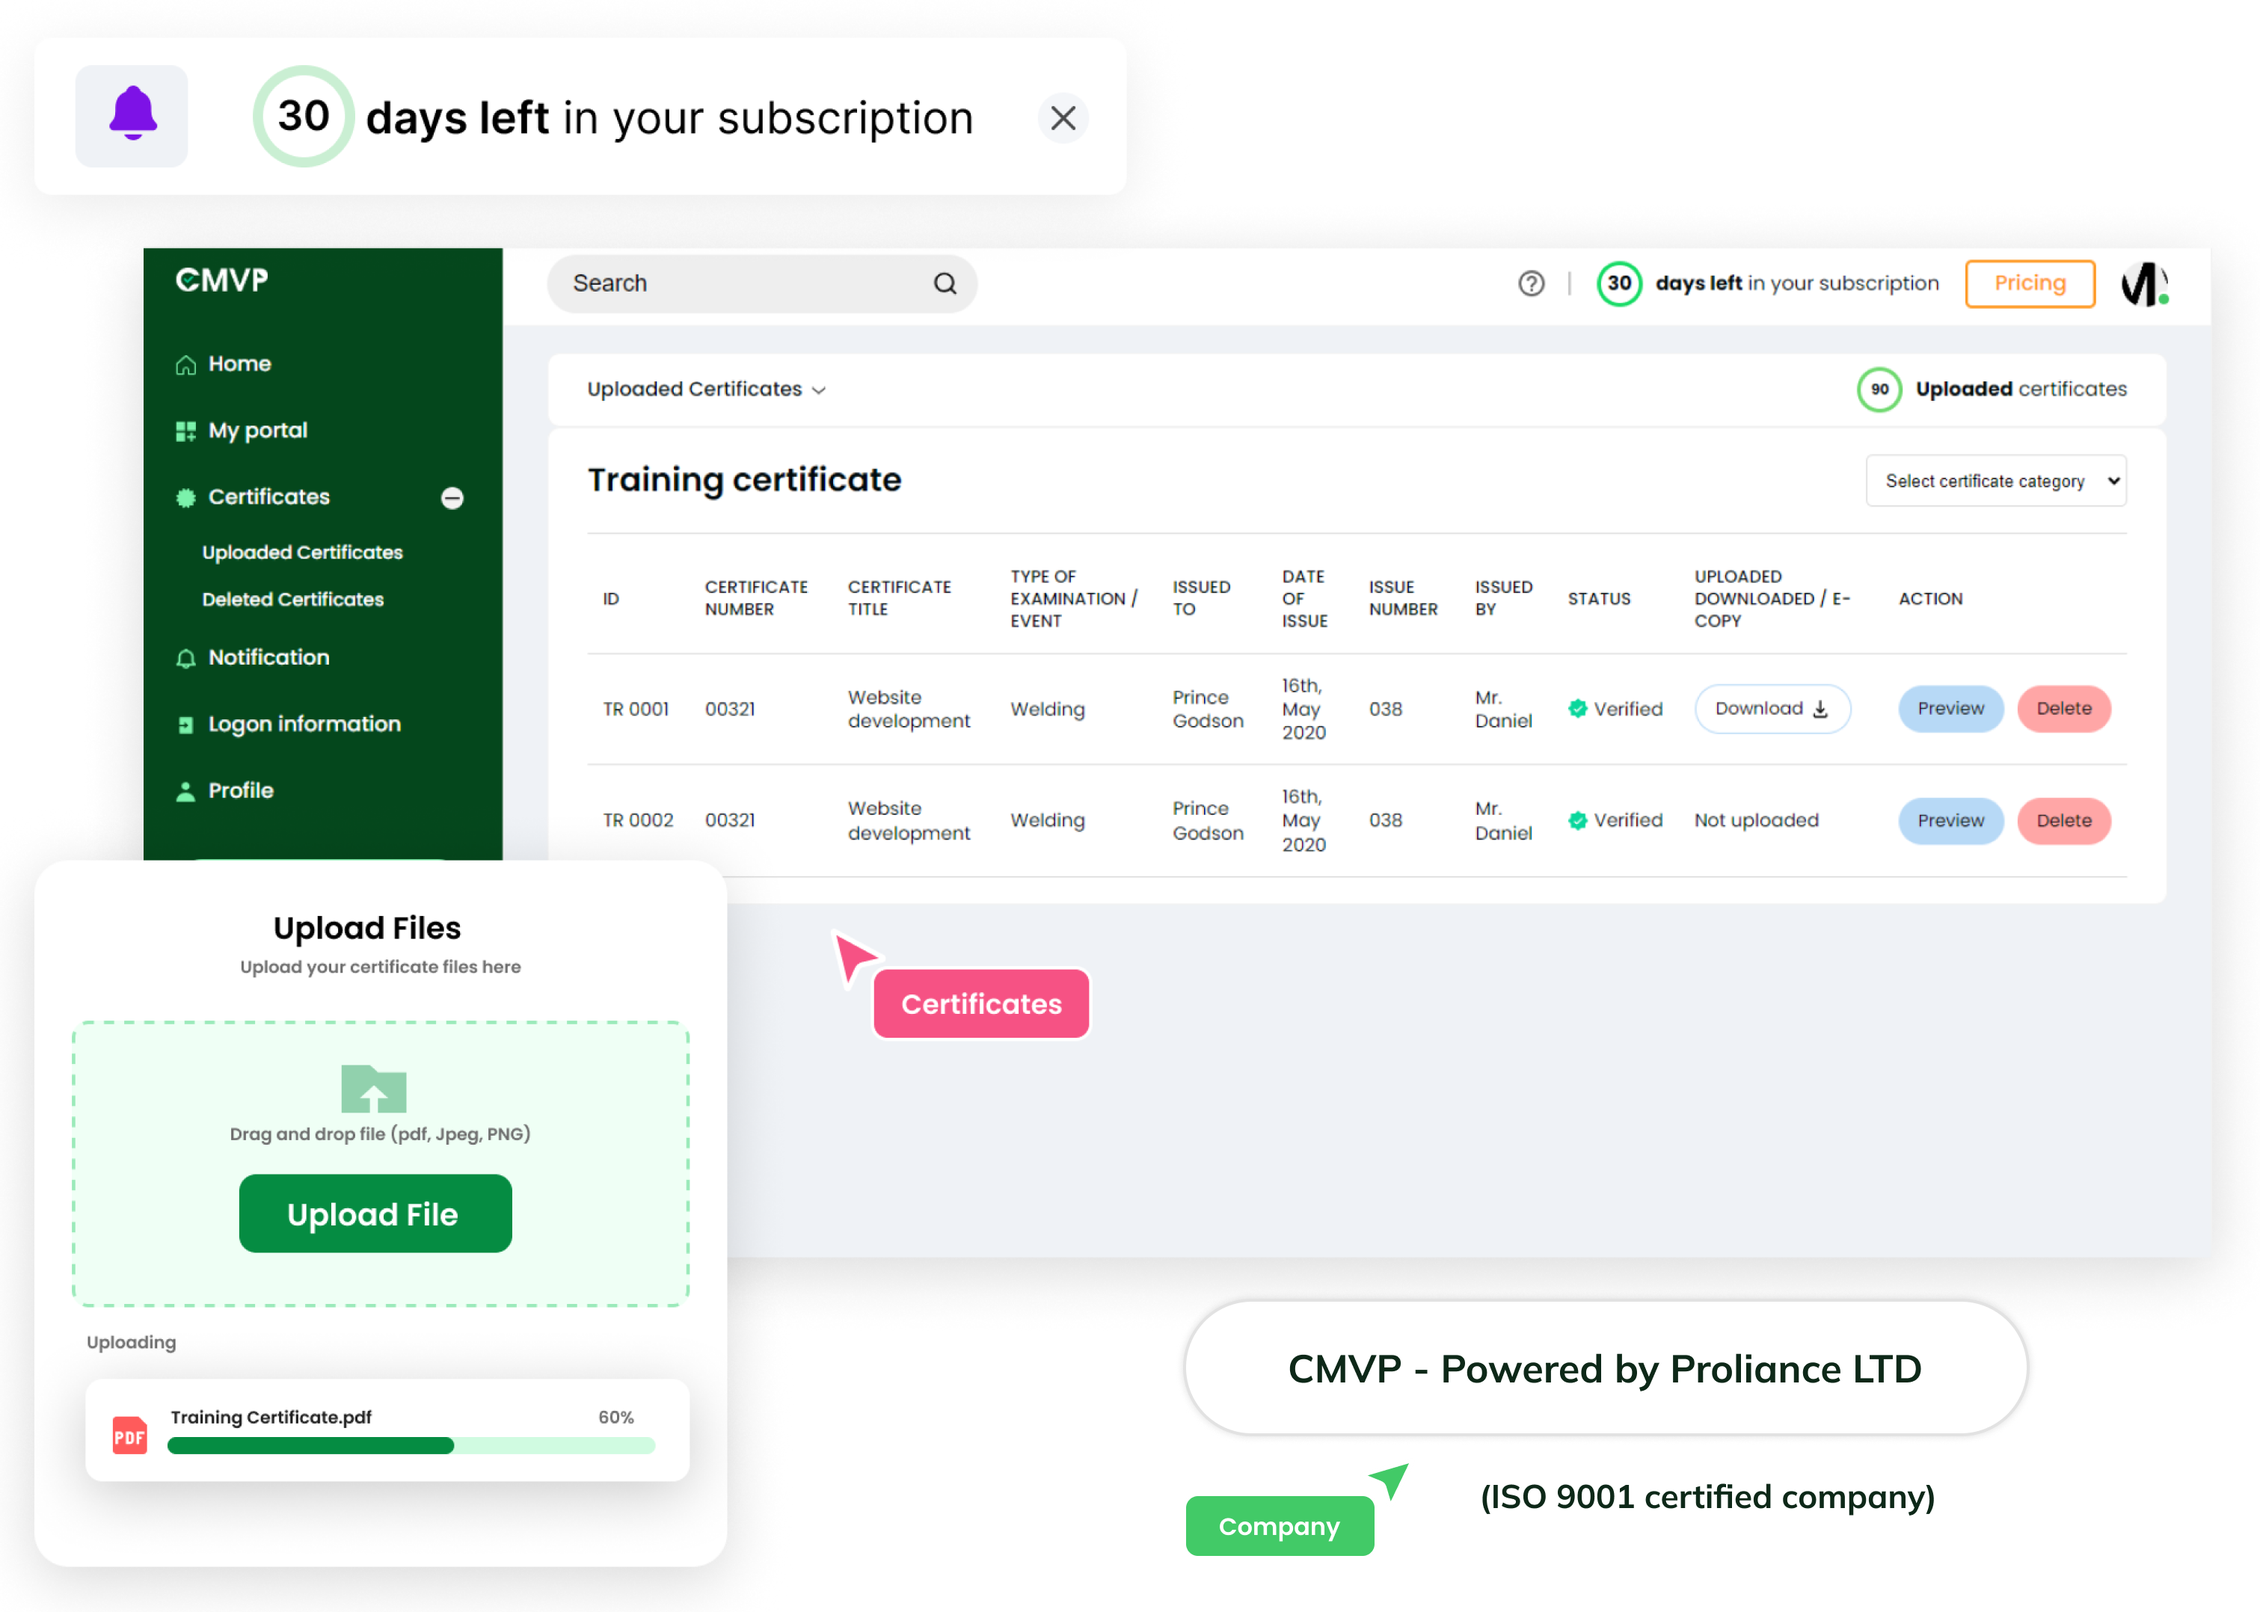
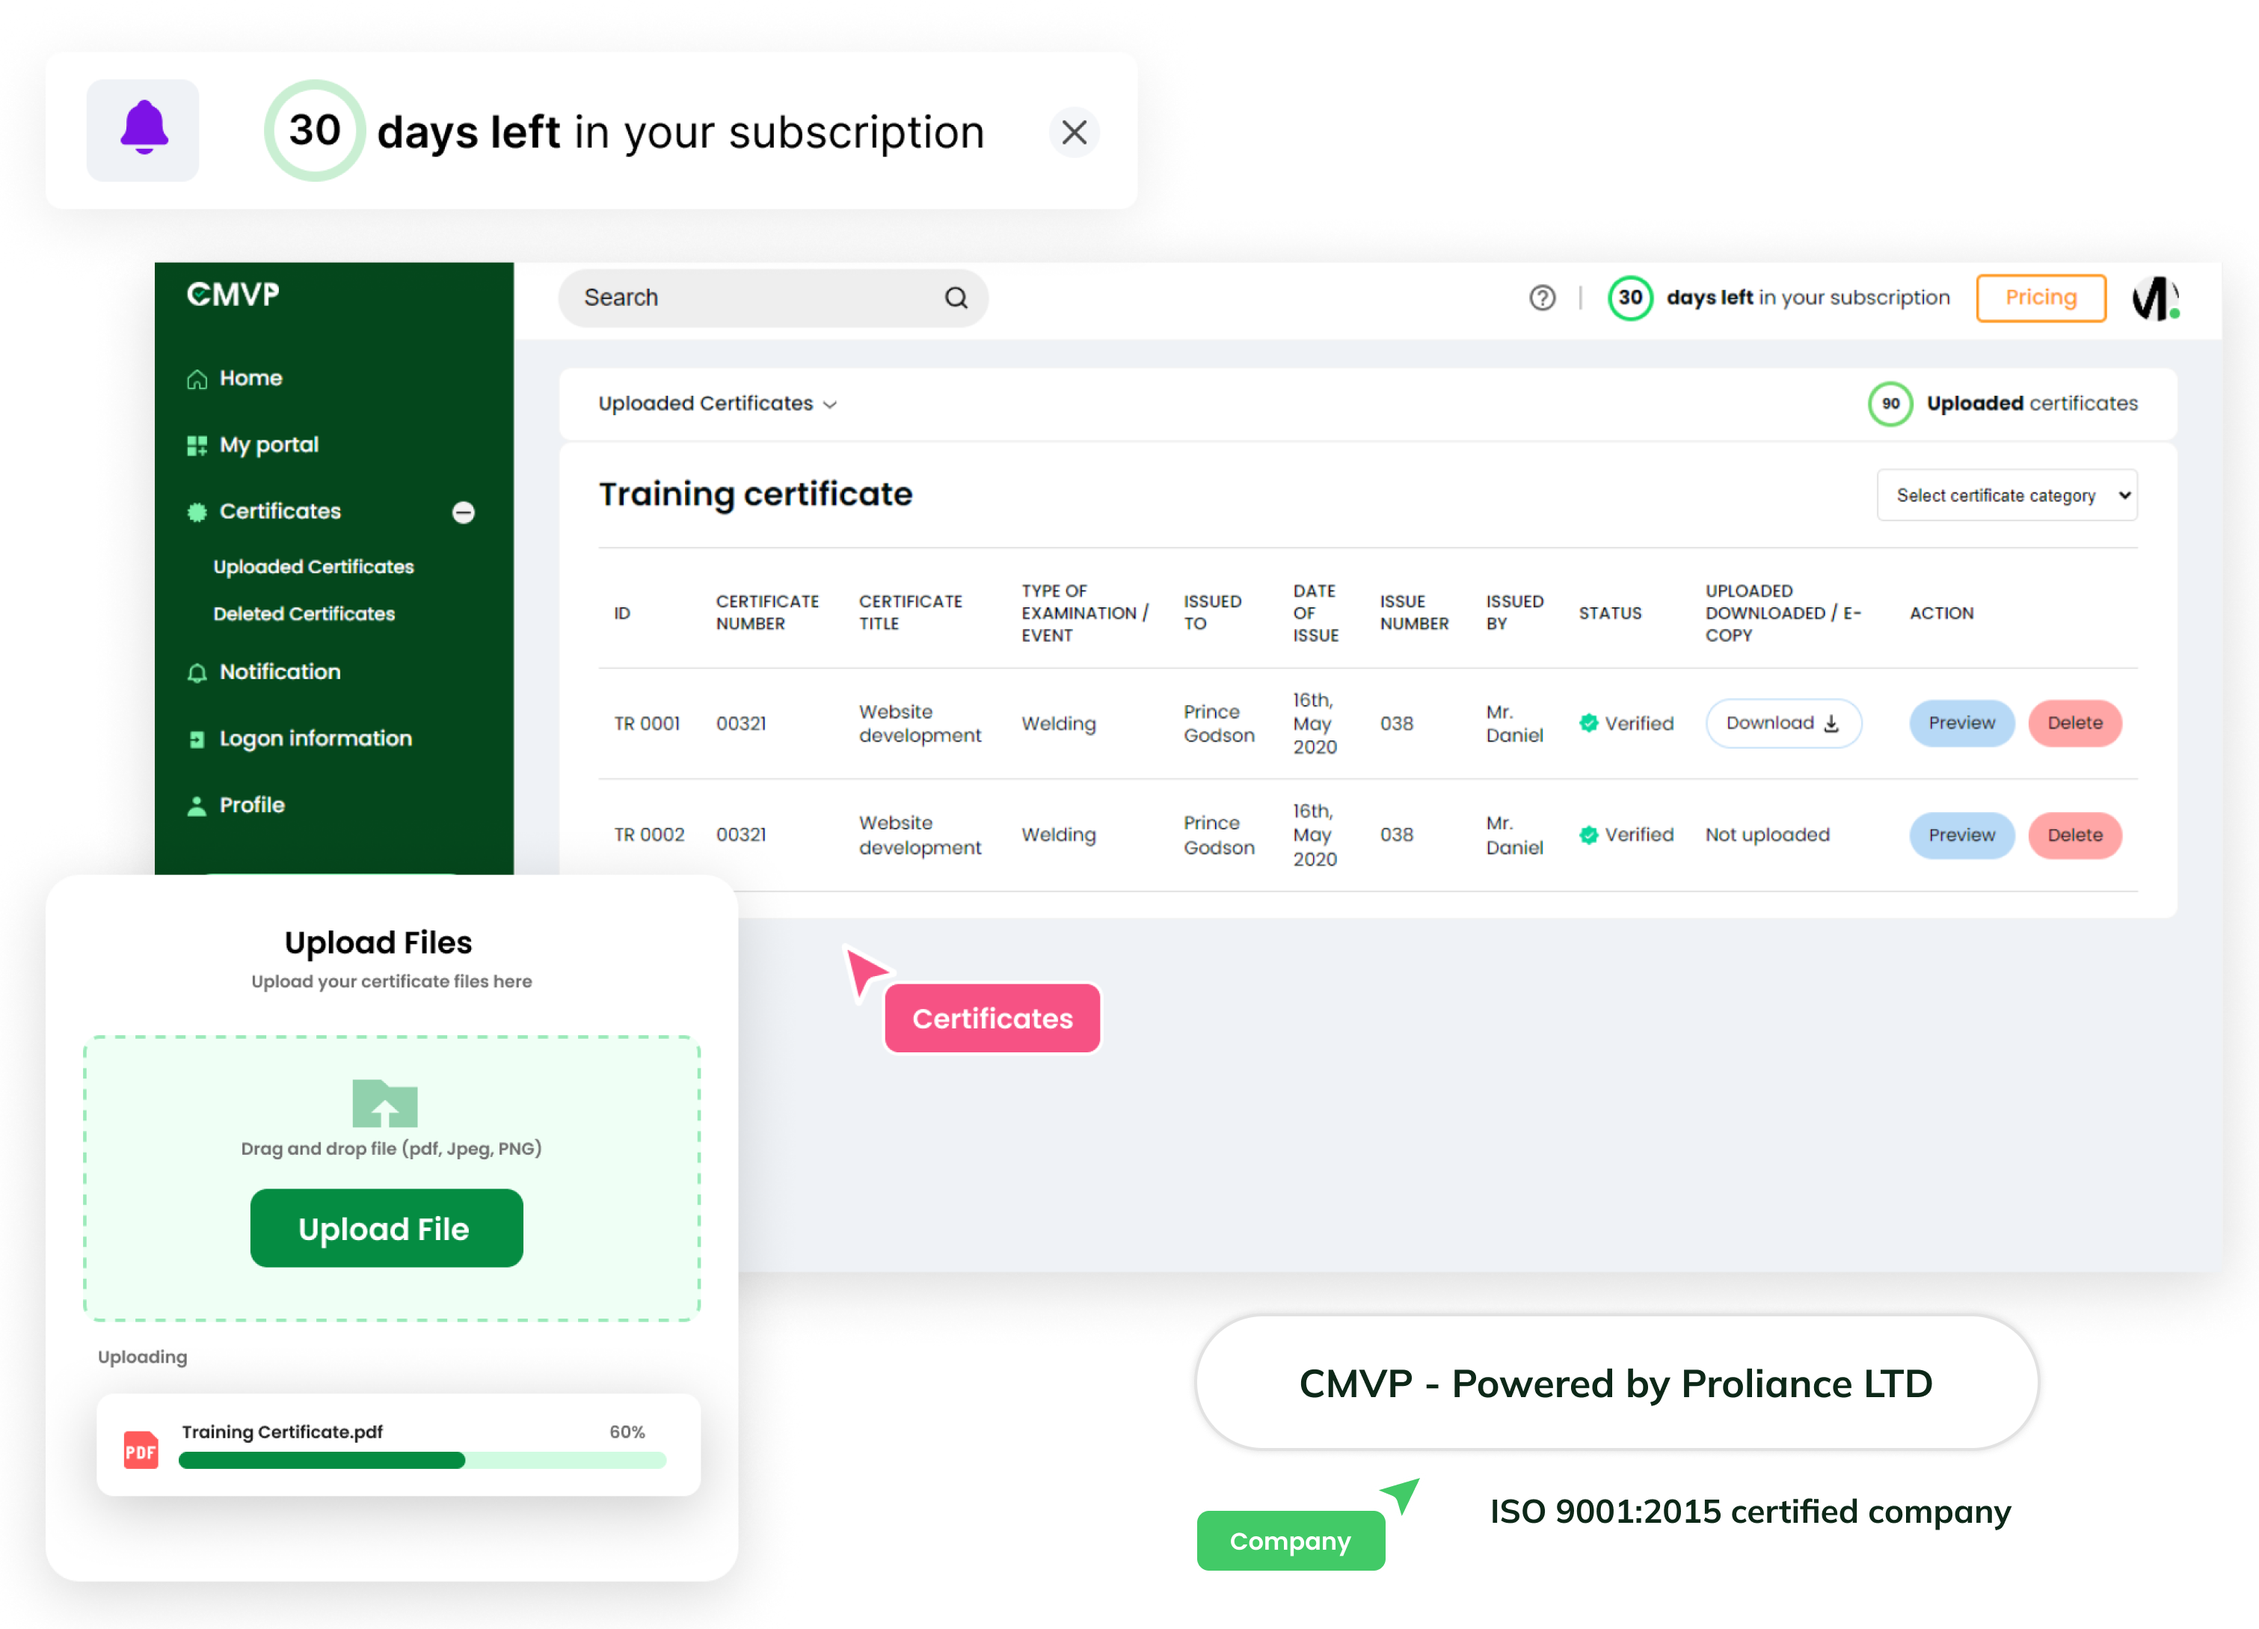
ISO 9001:2015 certified company

diff --git a/src/Components/Footer.jsx b/src/Components/Footer.jsx
@@ -49,7 +49,7 @@ function Footer() {
                 </div>
             </div>
             <div className='Sub-Foot'>
-                <p><a href='#'>Powered by Proliance LTD (ISO 9001 certified company)</a></p>
+                <p><a href='#'>Powered by Proliance LTD (ISO 9001:2015 certified company)</a></p>
                 <span>© {currentYear} CMVP. All rights reserved.</span>
             </div>
         </div>
